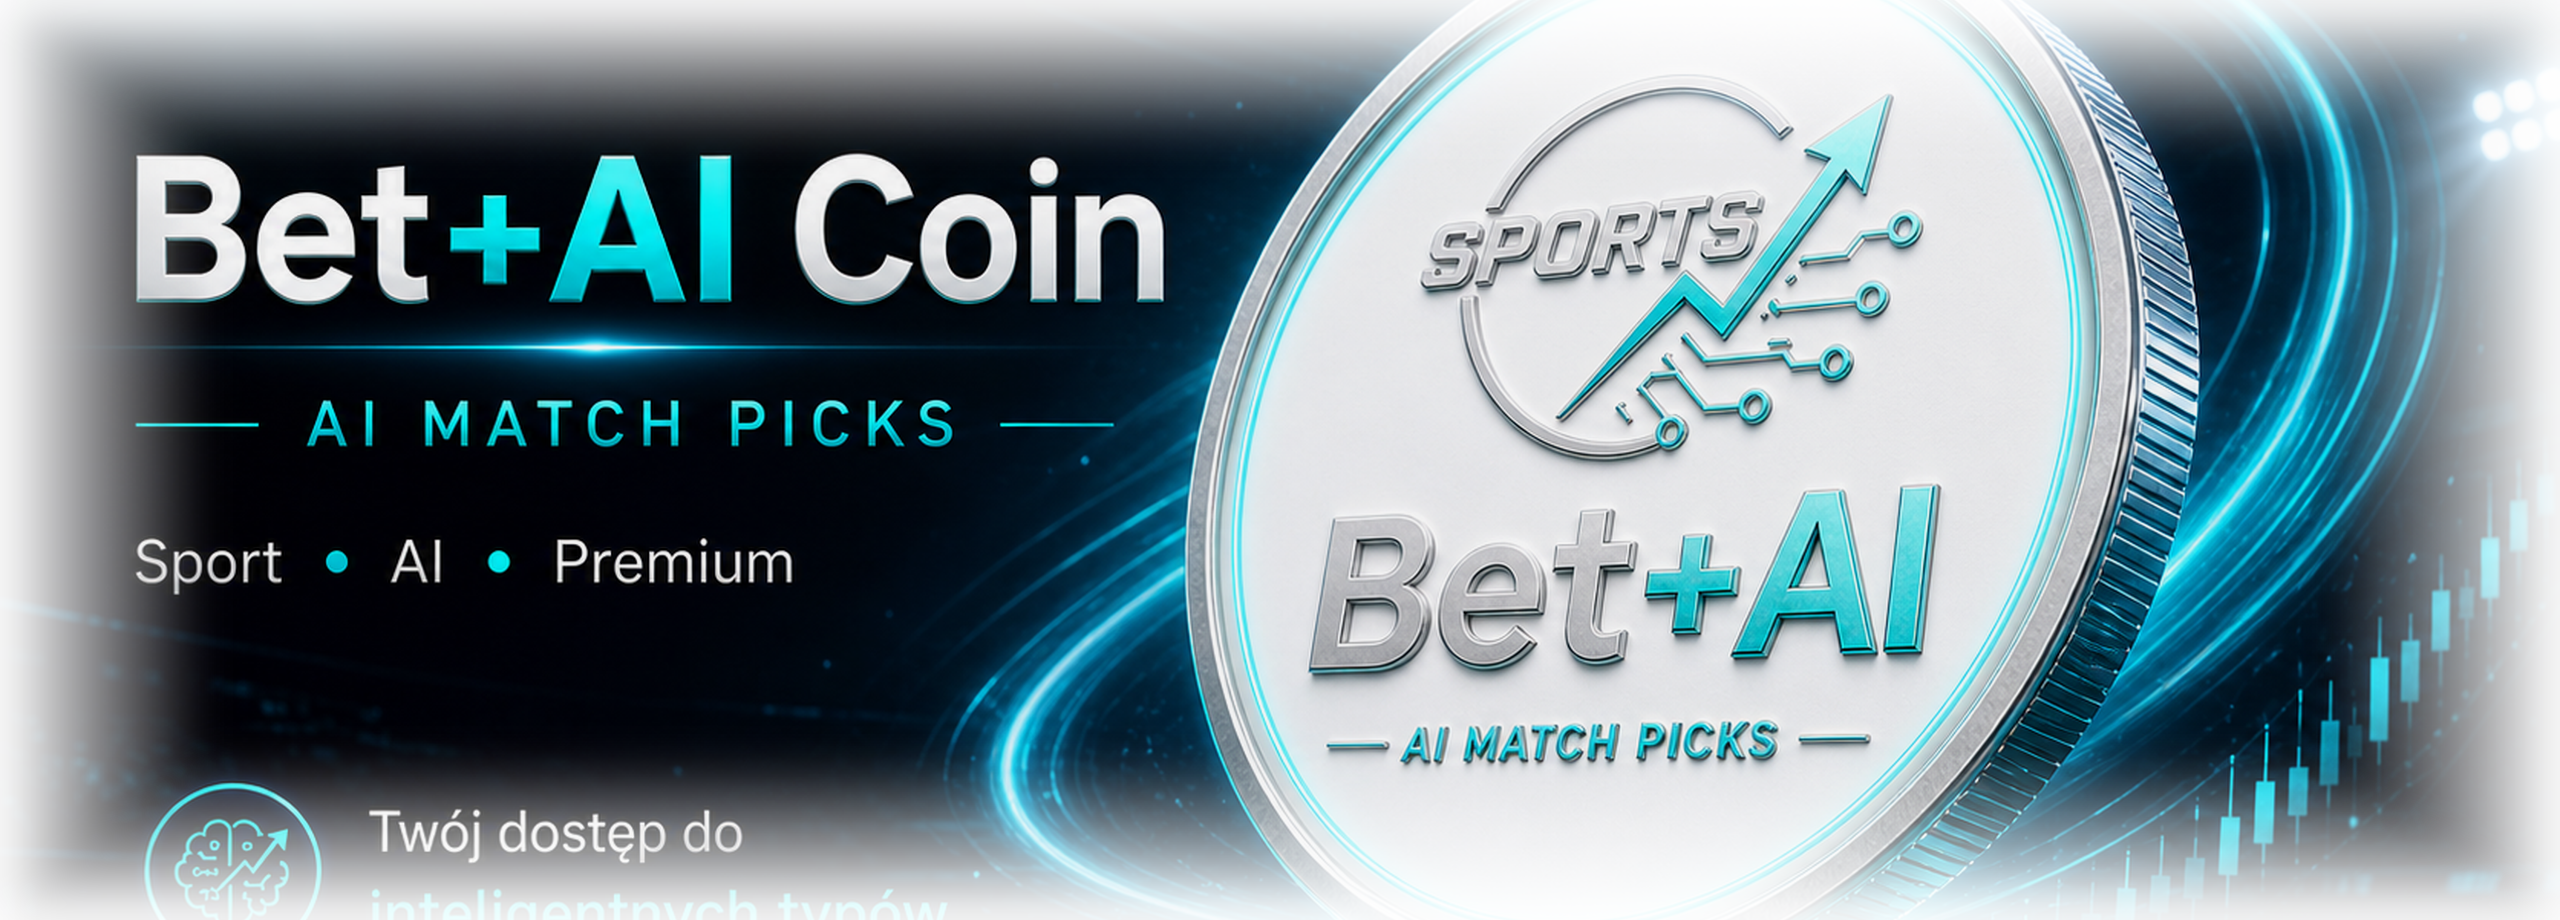
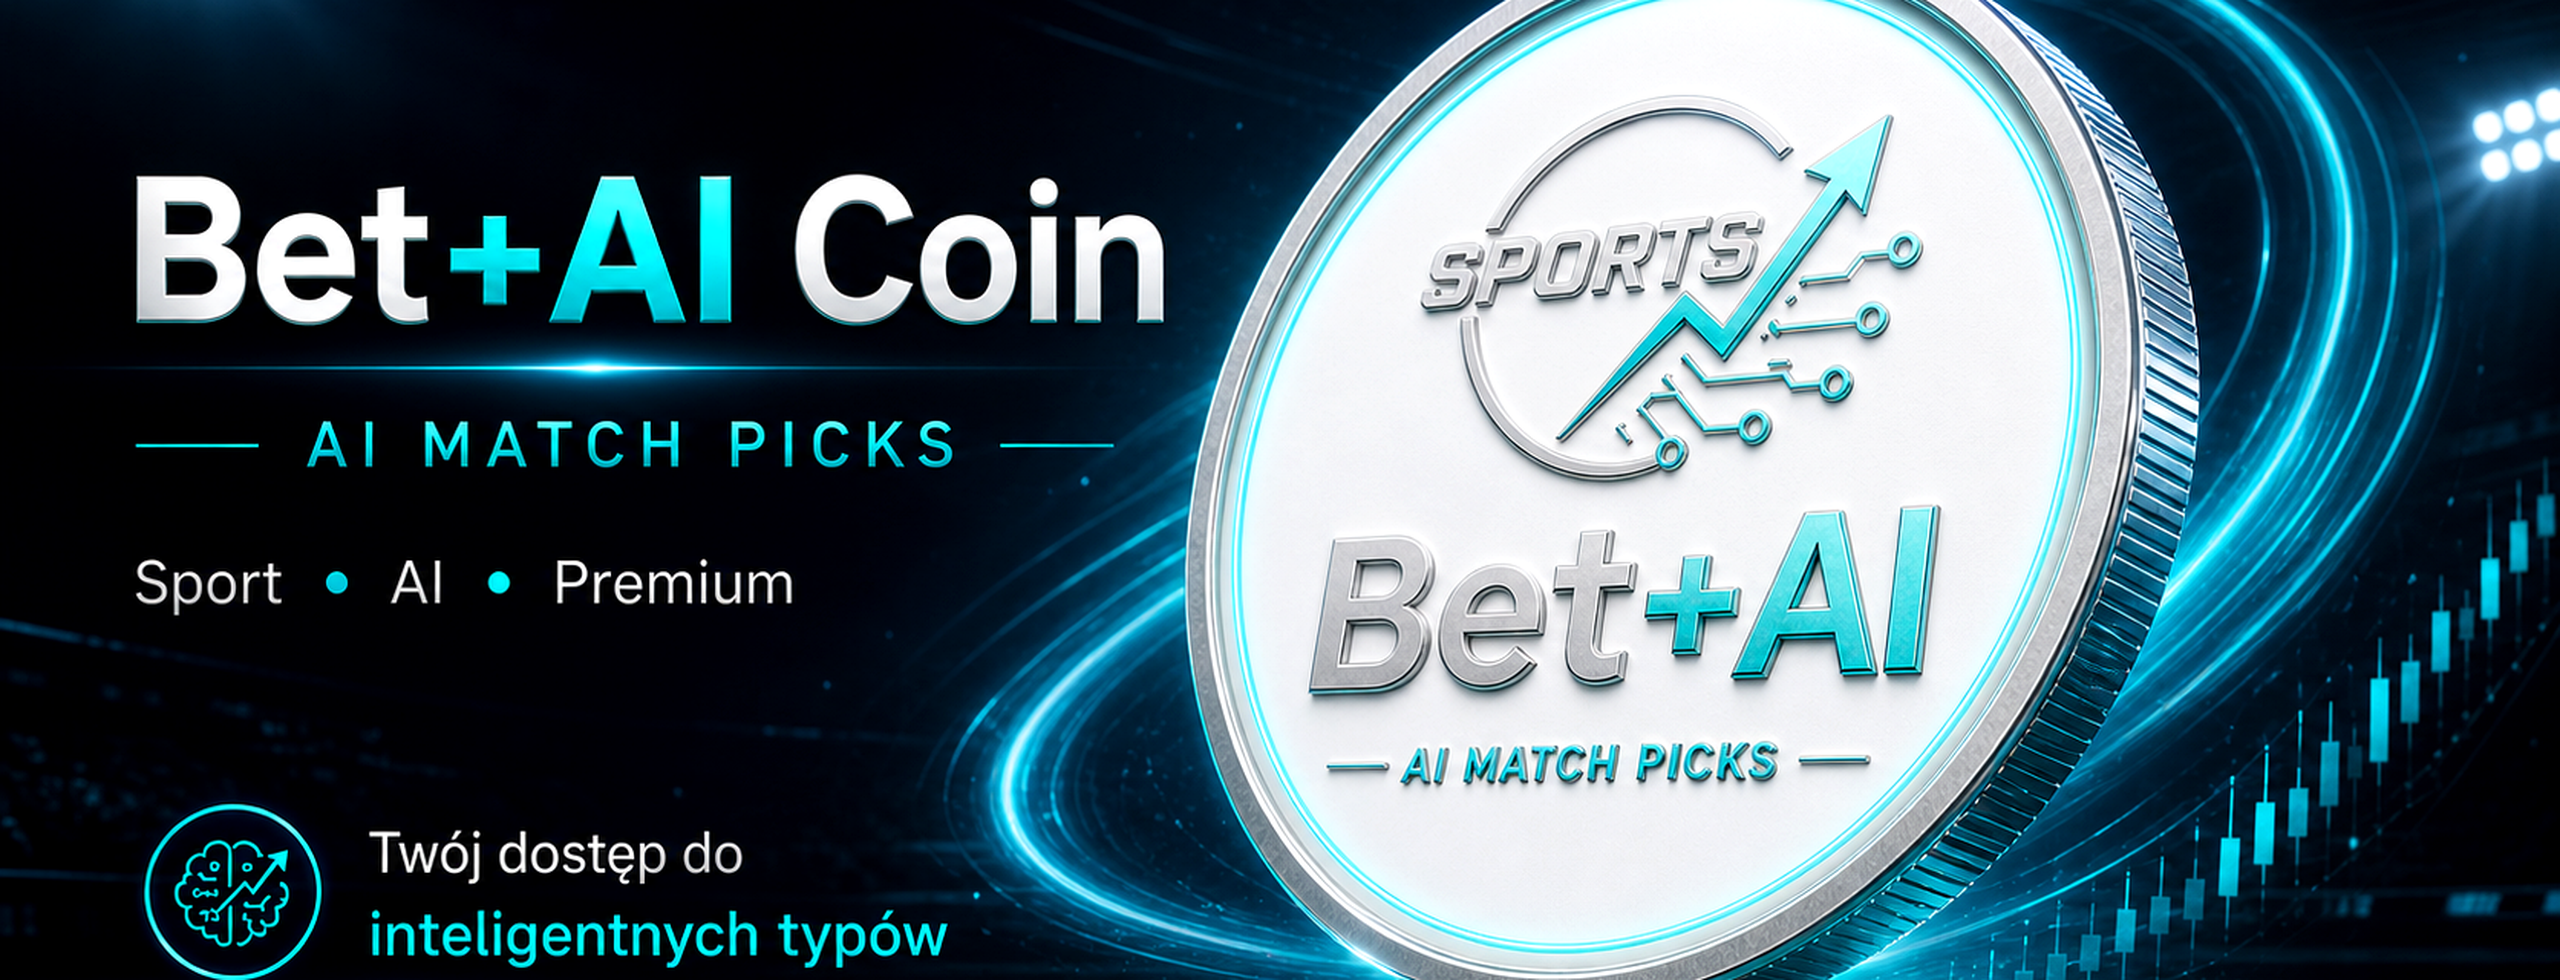
676

diff --git a/src/styles.css b/src/styles.css
@@ -8671,3 +8671,121 @@ html,body,#root{
 .wallet-stack-top small{
   color:#04121a!important;
 }
+
+
+/* WERSJA 404 — finalny niebieski kolor jak Wyloguj dla portfela i żetonów */
+.wallet-row-tokens span,
+.wallet-row-tokens b{
+  color:#10bce8!important;
+  font-weight:900!important;
+  text-shadow:0 0 10px rgba(16,188,232,.18)!important;
+}
+.wallet-top-btn{
+  background:linear-gradient(135deg,#18f0c8,#10bce8)!important;
+  border:1px solid rgba(24,240,200,.32)!important;
+  color:#04121a!important;
+  box-shadow:0 10px 22px rgba(20,224,201,.20)!important;
+}
+.wallet-top-btn strong,
+.wallet-top-btn small,
+.wallet-stack-top strong,
+.wallet-stack-top small{
+  color:#04121a!important;
+}
+.wallet-top-btn:hover{
+  filter:brightness(1.05)!important;
+  transform:translateY(-1px)!important;
+}
+
+
+/* WERSJA 405 — hero coin slide full frame fit
+   Baner ma wypełniać całą środkową ramkę hero (obszar centralny),
+   bez ruszania prawej kolumny MECZÓW DZIŚ. */
+@media (min-width: 1000px){
+  .betai-animated-hero{
+    min-height: 318px !important;
+    padding: 28px 250px 28px 24px !important;
+  }
+
+  .betai-animated-hero > .betai-hero-copy{
+    width: 100% !important;
+    max-width: none !important;
+    min-height: 260px !important;
+  }
+
+  .betai-animated-hero .betai-hero-kicker{
+    margin-bottom: 12px !important;
+  }
+
+  .betai-animated-hero .betai-hero-rotator{
+    width: 100% !important;
+    min-height: 236px !important;
+  }
+
+  .betai-animated-hero .betai-hero-panel-coin{
+    position: absolute !important;
+    inset: 0 0 auto 0 !important;
+    width: 100% !important;
+    max-width: none !important;
+    height: 236px !important;
+    display: block !important;
+    overflow: hidden !important;
+    border-radius: 24px !important;
+  }
+
+  .betai-animated-hero .betai-hero-panel-coin img{
+    width: 100% !important;
+    height: 236px !important;
+    max-height: none !important;
+    object-fit: cover !important;
+    object-position: center center !important;
+    border: 0 !important;
+    border-radius: 24px !important;
+    box-shadow: 0 20px 52px rgba(0,0,0,.26), inset 0 1px 0 rgba(255,255,255,.06) !important;
+    filter: saturate(1.04) brightness(1.02) !important;
+    background: transparent !important;
+  }
+}
+
+@media (min-width: 1181px){
+  .betai-animated-hero .betai-hero-panel-coin,
+  .betai-animated-hero .betai-hero-panel-coin img{
+    height: 244px !important;
+  }
+}
+
+@media (max-width: 999px){
+  .betai-hero-panel-coin img{
+    width: 100% !important;
+    height: auto !important;
+    object-fit: cover !important;
+  }
+}
+
+
+/* WERSJA 406 — prawa ramka/toast powiadomienia na niebiesko jak Wyloguj */
+.toast.success{
+  border-color:rgba(16,188,232,.42)!important;
+  background:linear-gradient(135deg,rgba(8,42,58,.98),rgba(7,79,106,.96))!important;
+  box-shadow:0 18px 48px rgba(16,188,232,.16)!important;
+}
+.toast.success .toast-icon{
+  background:linear-gradient(135deg,#18f0c8,#10bce8)!important;
+  color:#04121a!important;
+  box-shadow:0 10px 24px rgba(16,188,232,.18)!important;
+}
+.toast.success strong{
+  color:#f4fbff!important;
+}
+.toast.success span{
+  color:#d8eef7!important;
+}
+.toast.success .toast-close{
+  border-color:rgba(16,188,232,.26)!important;
+  background:rgba(255,255,255,.08)!important;
+  color:#f4fbff!important;
+}
+.toast.success .toast-cta{
+  background:linear-gradient(135deg,#18f0c8,#10bce8)!important;
+  color:#04121a!important;
+}
